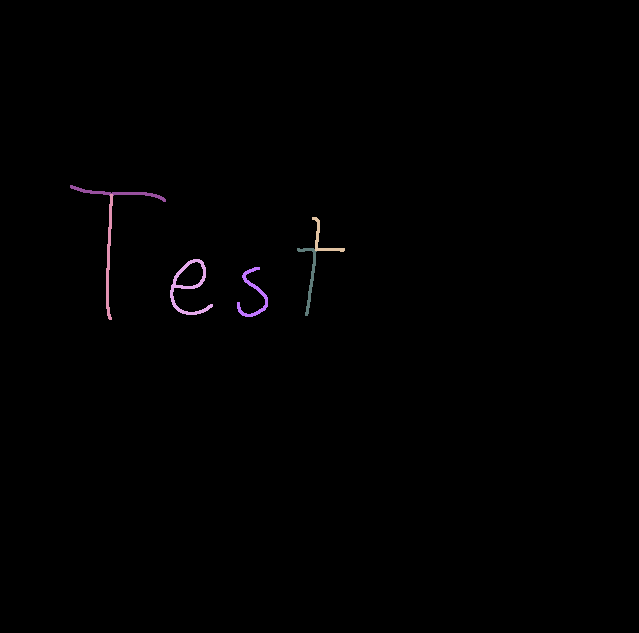
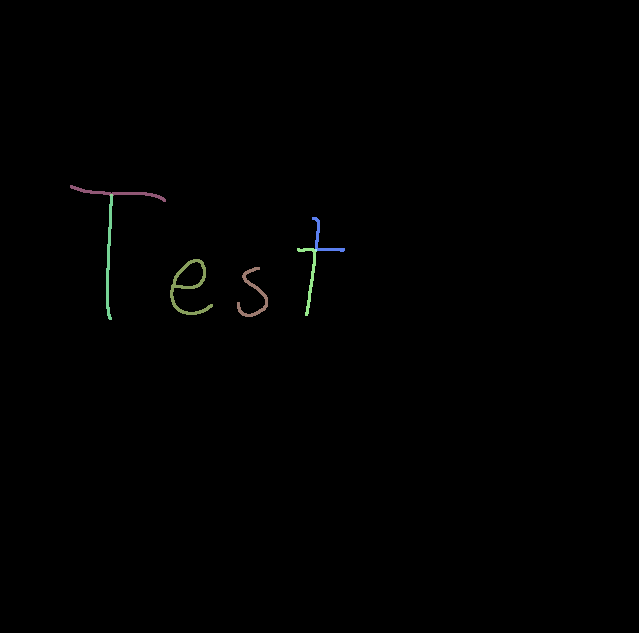
started to work towards ml

diff --git a/step1.py b/step1.py
@@ -1,7 +1,7 @@
-from asyncio.streams import start_server
 
 import cv2
 import matplotlib
+from scipy.interpolate import splev, splprep
 from scipy.ndimage import convolve
 
 matplotlib.use("QtAgg")
@@ -20,19 +20,7 @@ flat = flatte_page(gray, find_page(gray))[20:-20, 20:-20]
 
 blur = cv2.GaussianBlur(flat, (5, 5), 0)
 
-_, otsu = cv2.threshold(
-    blur, 0, 255, cv2.THRESH_BINARY_INV + cv2.THRESH_OTSU
-)
-
 ink = cv2.adaptiveThreshold(
-    blur, 255,
-    cv2.ADAPTIVE_THRESH_GAUSSIAN_C,
-    cv2.THRESH_BINARY_INV,
-    31, 10,
-)
-
-
-adaptive = cv2.adaptiveThreshold(
     blur, 255,
     cv2.ADAPTIVE_THRESH_GAUSSIAN_C,
     cv2.THRESH_BINARY_INV,
@@ -102,9 +90,50 @@ strokes = trace(sk, endpoints)
 print("Number of Strokes:", len(strokes))
 print("Lengths:", [len(s) for s in strokes])
 
+covered = set(p for s in strokes for p in s)
+all_skel = set(map(tuple, np.argwhere(sk)))
+missing = all_skel-covered
+print("Skeleton pixels", len(all_skel))
+print("Covered", len(covered))
+print("Missed", len(missing))
+
 canvas = np.zeros((*skeleton.shape, 3), np.uint8)
 for stroke in strokes:
     col = [int(v) for v in np.random.randint(80, 256, 3)]
     for y, x in stroke:
         canvas[y, x] = col
+for y, x in missing:
+    canvas[y, x] = (0, 0, 255)
 cv2.imwrite("strokes.png", cv2.dilate(canvas, np.ones((3, 3), np.uint8)))
+
+def smooth_resample(stroke, spacing=3.0, smoothing=1.0):
+    pts = np.array([(x, y) for y, x in stroke], dtype=float)
+    keep = np.r_[True, np.any(np.diff(pts, axis=0) != 0, axis=1)]
+    pts = pts[keep]
+    if len(pts) < 4:
+        return pts
+
+    tck, _ = splprep([pts[:, 0], pts[:, 1]], s=smoothing * len(pts), k=3)
+
+    length = np.sum(np.hypot(*np.diff(pts, axis=0).T))
+    n = max (int(length / spacing), 2)
+    u = np.linspace(0, 1, n)
+    x, y = splev(u, tck)
+    return np.column_stack([x, y])
+
+def simplify(stroke, epsilon=1.0):
+    pts = np.array([(x, y) for y, x in stroke], dtype=np.float32).reshape(-1, 1, 2)
+    approx = cv2.approxPolyDP(pts, epsilon, False)
+    return approx.reshape(-1, 2)
+
+plt.figure(figsize=(10, 6))
+for s in strokes:
+    if len(s) < 4:
+        continue
+    a = simplify(s, 2.0)
+    b= smooth_resample(s)
+    plt.plot(a[:, 0], a[:, 1], "r-", lw=1)
+    plt.plot(b[:, 0], b[:, 1], "b-", lw=1)
+plt.gca().invert_yaxis()
+plt.gca().set_aspect("equal")
+plt.savefig("compare.png", dpi=200)

diff --git a/page.py b/page.py
@@ -1,41 +1,14 @@
-import cv2
-import numpy as np
+import matplotlib
+matplotlib.use("Agg")
+import matplotlib.pyplot as plt
+from matplotlib.patches import Rectangles
 
+PAGE_W, PAGE_H = 210, 297
+MARGIN = 15
+LABEL_W = 15
+COLS = 2
+LETTERS = "abcdefghijklm"
+ROWS = len(LETTERS)
 
-def order_corners(pts):
-    pts = pts.reshape(4, 2).astype("float32")
-    s = pts.sum(axis=1)
-    d = np.diff(pts, axis=1)[:, 0]
-    return np.array([
-        pts[np.argmin(s)],
-        pts[np.argmin(d)],
-        pts[np.argmax(s)],
-        pts[np.argmax(d)],
-    ], dtype="float32")
-
-def find_page(gray):
-    blur = cv2.GaussianBlur(gray, (5, 5), 0)
-
-    _, mask = cv2.threshold(blur, 0, 255, cv2.THRESH_BINARY + cv2.THRESH_OTSU)
-
-    contours, _ = cv2.findContours(mask, cv2.RETR_EXTERNAL, cv2.CHAIN_APPROX_SIMPLE)
-    page = max(contours, key=cv2.contourArea)
-
-    peri = cv2.arcLength(page, True)
-    approx = cv2.approxPolyDP(page, 0.02 * peri, True)
-
-    if len(approx) != 4:
-        approx = cv2. boxPoints(cv2.minAreaRect(page))
-
-    return order_corners(approx)
-
-def flatte_page(img, corners):
-    tl, tr, br, bl = corners
-
-    width = int((np.linalg.norm(tr - tl) + np.linalg.norm(br - bl)) / 2)
-    height = int((np.linalg.norm(bl - tl) + np.linalg.norm(br - tr)) / 2)
-
-    dst = np.array([[0, 0], [width - 1, 0],
-        [width - 1, height - 1], [0, height - 1]], dtype="float32")
-    M = cv2.getPerspectiveTransform(corners, dst)
-    return cv2.warpPerspective(img, M, (width, height))
+cell_w = (PAGE_W -2 * MARGIN - LABEL_W) / COLS
+Cell_h = (PAGE_H -2 * MARGIN) / ROWS

diff --git a/page0.py b/page0.py
@@ -1,0 +1,41 @@
+import cv2
+import numpy as np
+
+
+def order_corners(pts):
+    pts = pts.reshape(4, 2).astype("float32")
+    s = pts.sum(axis=1)
+    d = np.diff(pts, axis=1)[:, 0]
+    return np.array([
+        pts[np.argmin(s)],
+        pts[np.argmin(d)],
+        pts[np.argmax(s)],
+        pts[np.argmax(d)],
+    ], dtype="float32")
+
+def find_page(gray):
+    blur = cv2.GaussianBlur(gray, (5, 5), 0)
+
+    _, mask = cv2.threshold(blur, 0, 255, cv2.THRESH_BINARY + cv2.THRESH_OTSU)
+
+    contours, _ = cv2.findContours(mask, cv2.RETR_EXTERNAL, cv2.CHAIN_APPROX_SIMPLE)
+    page = max(contours, key=cv2.contourArea)
+
+    peri = cv2.arcLength(page, True)
+    approx = cv2.approxPolyDP(page, 0.02 * peri, True)
+
+    if len(approx) != 4:
+        approx = cv2. boxPoints(cv2.minAreaRect(page))
+
+    return order_corners(approx)
+
+def flatte_page(img, corners):
+    tl, tr, br, bl = corners
+
+    width = int((np.linalg.norm(tr - tl) + np.linalg.norm(br - bl)) / 2)
+    height = int((np.linalg.norm(bl - tl) + np.linalg.norm(br - tr)) / 2)
+
+    dst = np.array([[0, 0], [width - 1, 0],
+        [width - 1, height - 1], [0, height - 1]], dtype="float32")
+    M = cv2.getPerspectiveTransform(corners, dst)
+    return cv2.warpPerspective(img, M, (width, height))
